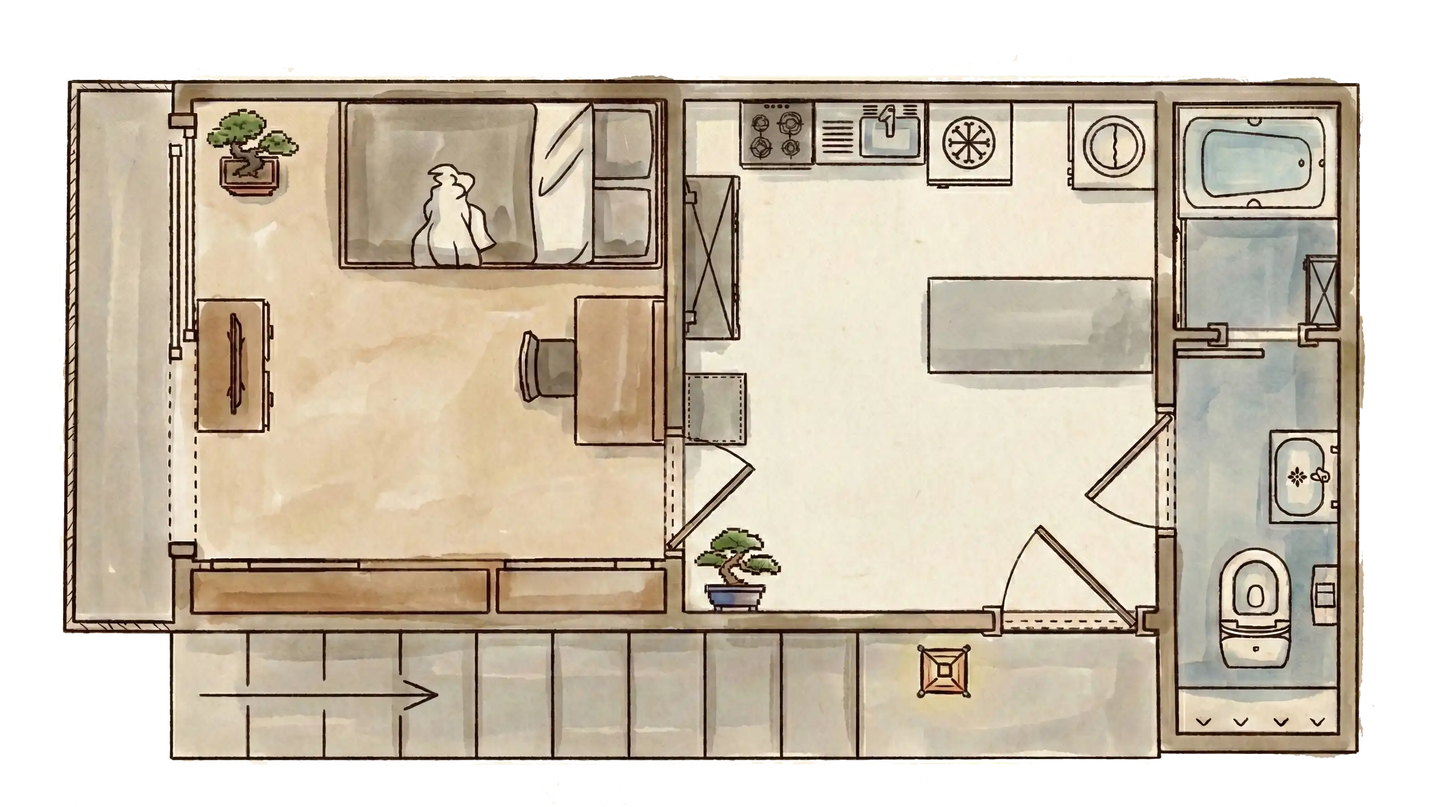
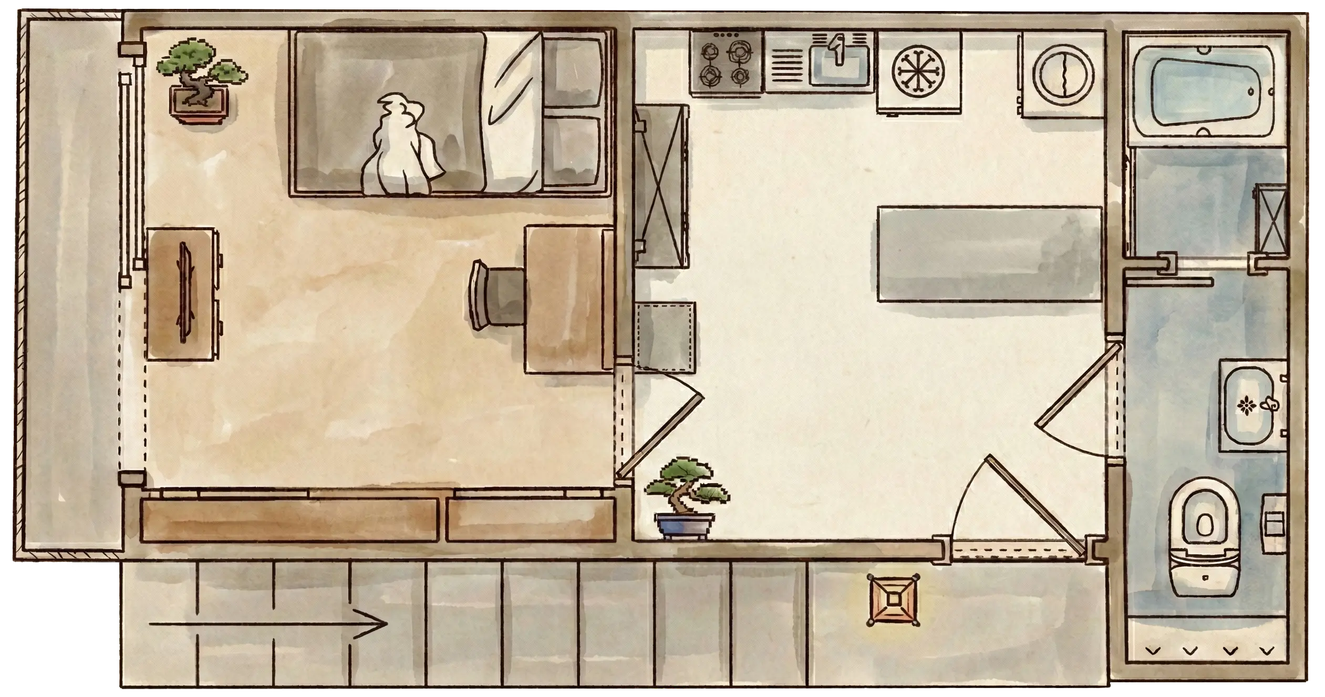
fix: optimize floor map and improve mobile navigation

diff --git a/app/components/NavigationMap.vue b/app/components/NavigationMap.vue
@@ -9,30 +9,30 @@ const mapZones = [
     id: "bedroom",
     name: "Bedroom",
     path: "/bedroom",
-    x: 13,
-    y: 12,
-    w: 33,
-    h: 64,
+    x: 11,
+    y: 4,
+    w: 36,
+    h: 74,
   },
   {
     id: "kitchen",
     name: "Kitchen",
     path: "/kitchen",
-    x: 47,
-    y: 12,
-    w: 33,
-    h: 64,
+    x: 48,
+    y: 4,
+    w: 36,
+    h: 74,
   },
   {
     id: "bathroom",
     name: "Bathroom",
     path: "/bathroom",
-    x: 81,
-    y: 12,
+    x: 85,
+    y: 4,
     w: 12,
-    h: 80,
+    h: 91,
   },
-  { id: "entrance", name: "Entrance", path: "/", x: 12, y: 78, w: 68, h: 16 },
+  { id: "entrance", name: "Entrance", path: "/", x: 9, y: 80, w: 75, h: 19 },
 ];
 
 const currentZone = computed(() => mapZones.find((z) => z.path === route.path));
@@ -66,7 +66,9 @@ const openMap = () => {
 </script>
 
 <template>
-  <div class="fixed bottom-8 z-50 flex justify-center w-full select-none">
+  <div
+    class="fixed z-50 flex select-none w-full justify-center landscape:w-auto landscape:right-5 lg:landscape:w-full lg:landscape:justify-center lg:landscape:right-auto landscape:bottom-5 lg:landscape:bottom-8"
+  >
     <button
       class="group relative outline-none focus:outline-none cursor-pointer"
       aria-label="Open Apartment Map"
@@ -108,59 +110,55 @@ const openMap = () => {
     <UModal
       v-model:open="isMapOpen"
       :ui="{
-        content: 'sm:max-w-7xl bg-transparent',
+        content: 'lg:max-w-6xl bg-transparent shadow-none ring-0',
         overlay: 'backdrop-blur-sm',
       }"
     >
       <template #content>
-        <div>
-          <div
-            class="relative w-full aspect-video shadow-inner overflow-hidden"
-          >
-            <img
-              src="/images/floorplan.webp"
-              alt="Floor Plan Map"
-              class="absolute inset-0 w-full h-full object-fill"
-            />
+        <div class="relative grow aspect-video shadow-inner overflow-hidden">
+          <img
+            src="/images/floorplan.webp"
+            alt="Floor Plan Map"
+            class="absolute inset-0 w-full h-full object-fill"
+          />
 
-            <button
-              v-for="zone in mapZones"
-              :key="zone.id"
-              class="absolute group transition-all duration-200 focus:outline-none"
-              :class="[
-                route.path === zone.path
-                  ? 'cursor-default bg-green-500/20 border-2 border-green-600'
-                  : 'cursor-pointer hover:bg-yellow-400/30 hover:border-2 hover:border-yellow-600',
-              ]"
-              :style="{
-                left: `${zone.x}%`,
-                top: `${zone.y}%`,
-                width: `${zone.w}%`,
-                height: `${zone.h}%`,
-              }"
-              @click="navigateToRoom(zone.path)"
+          <button
+            v-for="zone in mapZones"
+            :key="zone.id"
+            class="absolute group transition-all duration-200 focus:outline-none"
+            :class="[
+              route.path === zone.path
+                ? 'cursor-default bg-green-500/20 border-2 border-green-600'
+                : 'cursor-pointer hover:bg-yellow-400/30 hover:border-2 hover:border-yellow-600',
+            ]"
+            :style="{
+              left: `${zone.x}%`,
+              top: `${zone.y}%`,
+              width: `${zone.w}%`,
+              height: `${zone.h}%`,
+            }"
+            @click="navigateToRoom(zone.path)"
+          >
+            <div
+              v-if="route.path === zone.path"
+              class="absolute inset-0 flex flex-col items-center justify-center"
             >
-              <div
-                v-if="route.path === zone.path"
-                class="absolute inset-0 flex flex-col items-center justify-center"
+              <UIcon
+                name="i-heroicons-map-pin-solid"
+                class="text-5xl text-red-600 drop-shadow-md animate-bounce"
+              />
+            </div>
+            <div
+              v-else
+              class="hidden group-hover:flex absolute inset-0 flex-col items-center justify-center z-10"
+            >
+              <span
+                class="bg-yellow-100 text-yellow-900 text-[10px] uppercase font-bold px-1 py-0.5 rounded border border-yellow-600 shadow-sm"
               >
-                <UIcon
-                  name="i-heroicons-map-pin-solid"
-                  class="text-5xl text-red-600 drop-shadow-md animate-bounce"
-                />
-              </div>
-              <div
-                v-else
-                class="hidden group-hover:flex absolute inset-0 flex-col items-center justify-center z-10"
-              >
-                <span
-                  class="bg-yellow-100 text-yellow-900 text-[10px] uppercase font-bold px-1 py-0.5 rounded border border-yellow-600 shadow-sm"
-                >
-                  {{ zone.name }}
-                </span>
-              </div>
-            </button>
-          </div>
+                {{ zone.name }}
+              </span>
+            </div>
+          </button>
         </div>
       </template>
     </UModal>

diff --git a/app/components/BackButton.vue b/app/components/BackButton.vue
@@ -17,7 +17,9 @@ const returnToScene = () => {
 </script>
 
 <template>
-  <div class="fixed bottom-8 z-50 flex justify-center w-full select-none">
+  <div
+    class="fixed z-50 flex select-none w-full justify-center landscape:w-auto landscape:right-5 lg:landscape:w-full lg:landscape:justify-center lg:landscape:right-auto landscape:bottom-5 lg:landscape:bottom-8"
+  >
     <button
       class="group relative outline-none focus:outline-none cursor-pointer"
       aria-label="Open Apartment Map"
